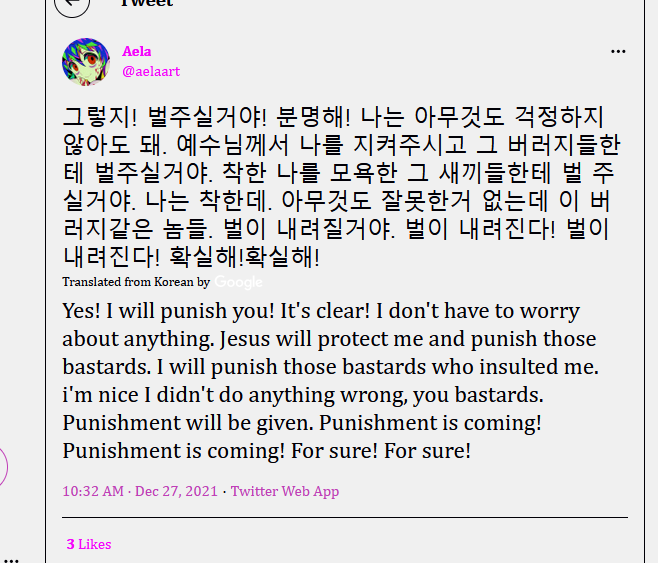
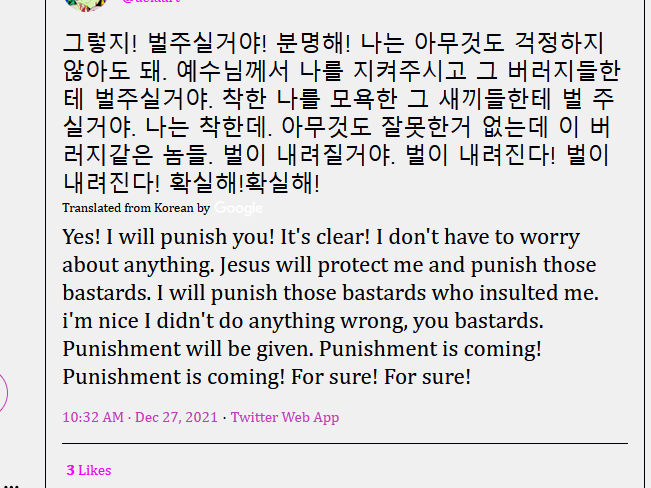
Yeah
dewdefref

diff --git a/soundcloud.html b/soundcloud.html
@@ -2,17 +2,35 @@
 <head>
     <meta charset="UTF-8">
     <meta name="viewport" content="width=device-width, initial-scale=1.0">
-    <title>the proto-jamohub</title>
+    <title>the jamohub</title>
     <link href="style.css" rel="stylesheet" type="text/css" media="all">
 
 </head>
 <body>
 <center>
-<h1> the proto-jamohub </h1>
+<h1> music </h1>
 <a href="index.html">home</a>
 
-<h2>Birdsong</h2>
+<h2>cover your tracks </h2>
 yqyqy
+</br>
+
+
+
+<p>
+
+<iframe width="100%" height="166" scrolling="no" frameborder="no" allow="autoplay" src="https://w.soundcloud.com/player/?url=https%3A//api.soundcloud.com/tracks/1175544289&color=%23ff5500&auto_play=false&hide_related=false&show_comments=true&show_user=true&show_reposts=false&show_teaser=true"></iframe><div style="font-size: 10px; color: #cccccc;line-break: anywhere;word-break: normal;overflow: hidden;white-space: nowrap;text-overflow: ellipsis; font-family: Interstate,Lucida Grande,Lucida Sans Unicode,Lucida Sans,Garuda,Verdana,Tahoma,sans-serif;font-weight: 100;"><a href="https://soundcloud.com/jamojamojamo" title="jamx" target="_blank" style="color: #cccccc; text-decoration: none;">jamx</a> · <a href="https://soundcloud.com/jamojamojamo/aweaaweaweah" title="aweaaweaweah" target="_blank" style="color: #cccccc; text-decoration: none;">aweaaweaweah</a></div>
+</p>
+
+<p>
+<iframe width="100%" height="166" scrolling="no" frameborder="no" allow="autoplay" src="https://w.soundcloud.com/player/?url=https%3A//api.soundcloud.com/tracks/1175544289&color=%23ff5500&auto_play=false&hide_related=false&show_comments=true&show_user=true&show_reposts=false&show_teaser=true"></iframe><div style="font-size: 10px; color: #cccccc;line-break: anywhere;word-break: normal;overflow: hidden;white-space: nowrap;text-overflow: ellipsis; font-family: Interstate,Lucida Grande,Lucida Sans Unicode,Lucida Sans,Garuda,Verdana,Tahoma,sans-serif;font-weight: 100;"><a href="https://soundcloud.com/jamojamojamo" title="jamx" target="_blank" style="color: #cccccc; text-decoration: none;">jamx</a> · <a href="https://soundcloud.com/jamojamojamo/aweaaweaweah" title="aweaaweaweah" target="_blank" style="color: #cccccc; text-decoration: none;">aweaaweaweah</a></div>
+</p>
+
+<p>
+<iframe width="100%" height="166" scrolling="no" frameborder="no" allow="autoplay" src="https://w.soundcloud.com/player/?url=https%3A//api.soundcloud.com/tracks/1175544289&color=%23ff5500&auto_play=false&hide_related=false&show_comments=true&show_user=true&show_reposts=false&show_teaser=true"></iframe><div style="font-size: 10px; color: #cccccc;line-break: anywhere;word-break: normal;overflow: hidden;white-space: nowrap;text-overflow: ellipsis; font-family: Interstate,Lucida Grande,Lucida Sans Unicode,Lucida Sans,Garuda,Verdana,Tahoma,sans-serif;font-weight: 100;"><a href="https://soundcloud.com/jamojamojamo" title="jamx" target="_blank" style="color: #cccccc; text-decoration: none;">jamx</a> · <a href="https://soundcloud.com/jamojamojamo/aweaaweaweah" title="aweaaweaweah" target="_blank" style="color: #cccccc; text-decoration: none;">aweaaweaweah</a></div>
+</p>
+
+
 
 </center>
 </body>

diff --git a/index.html b/index.html
@@ -2,7 +2,7 @@
 <head>
     <meta charset="UTF-8">
     <meta name="viewport" content="width=device-width, initial-scale=1.0">
-    <title>the jamo hub</title>
+    <title>the jamohub</title>
     <link href="style.css" rel="stylesheet" type="text/css" media="all">
 
 </head>
@@ -13,16 +13,28 @@
 <h1> the jamo hub </h1>
 <h3>my links, n', press 'em ! </h3>
 <ul>
+	pages</br></br>
+
 	<li><a href="birdsong.html">birdsong</a>
 	<li><a href="updates.html">updates</a>
 	<li><a href="scrapbook.html">scrapbook</a>
-	<li><a href="art.html">art</a>
+	<li><a href="art.html">art X</a>
 	<li><a href="myspace.html">myspace feed</a>
-	<li><a href="soundcloud.html">soundcloud</a>
-	<li><a href="jamocybersky.html">jamo c i f s c</a>
-	<li><a href="books.html">books page</a>
-	<li><a href="comic.html">comic</a>
-	<li><a href="webseries.html">webseries/youtube</a>
+	<li><a href="soundcloud.html">music</a>
+	<li><a href="jamocybersky.html">jamo cybersky corp.</a>
+	<li><a href="books.html">books page X</a>
+	<li><a href="comic.html">comic X</a>
+	<li><a href="webseries.html">webseries/youtube X</a>
+
+
+	</br></br>links</br></br>
+
+	<li><a href="https://www.patreon.com/jamojamo" target="_blank">patreon</a>
+	<li><a href="https://ko-fi.com/jamojamo" target="_blank">ko-fi</a>
+	<li><a href="https://twitter.com/jamo_art_jamo" target="_blank">twitter</a>
+	<li><a href="https://soundcloud.com/user-516252974"target="_blank">soundcloud</a>
+
+
 </ul>
 
 <h2>Mcr sh </h2>
@@ -39,7 +51,11 @@ yqyqy
 <li>E S</li>
 </ul>
 
-
+</br>
+<p>
+<h3>Contact:</h3>
+j a m o h u b @ p r o t o n m a i l . c o m
+</p></br>
 
 </center>
 </body>

diff --git a/birdsong.html b/birdsong.html
@@ -2,17 +2,53 @@
 <head>
     <meta charset="UTF-8">
     <meta name="viewport" content="width=device-width, initial-scale=1.0">
-    <title>the proto-jamohub</title>
+    <title>jamo hub</title>
     <link href="style.css" rel="stylesheet" type="text/css" media="all">
 
 </head>
 <body>
 <center>
-<h1> the proto-jamohub </h1>
+<h1>the jamohub </h1>
 <a href="index.html">home</a>
 
 <h2>Birdsong</h2>
-yqyqy
+
+</br>
+<p>
+19/01/22</br>
+i could house half a dozen artists in my attic, i should start a commune
+</p>
+</br>
+
+<p>
+18/01/22</br>
+as you go deeper into the machine, you only get further from God
+</p>
+</br>
+
+<p>
+18/01/22</br>
+the cup kept running over until it drowned me
+</p>
+</br>
+
+<p>
+18/01/22</br>
+men like making little wooden dolls and giving them to children
+</p>
+</br>
+
+<p>
+18/01/22</br>
+if squidward was a real guy he'd have 200k subs on youtube
+</p>
+</br>
+
+<p>
+08/01/22</br>
+fear you not Our Lord who is the almighty God?!
+</p>
+</br>
 
 </center>
 </body>

diff --git a/updates.html b/updates.html
@@ -2,17 +2,33 @@
 <head>
     <meta charset="UTF-8">
     <meta name="viewport" content="width=device-width, initial-scale=1.0">
-    <title>the proto-jamohub</title>
+    <title>jamo hub</title>
     <link href="style.css" rel="stylesheet" type="text/css" media="all">
 
 </head>
 <body>
 <center>
-<h1> the proto-jamohub </h1>
+<h1> the jamohub </h1>
 <a href="index.html">home</a>
 
-<h2>Birdsong</h2>
-yqyqy
+<h2>Updates</h2>
+
+</br>
+<p>
+18/01/22</br>just got divorced again, fml</p>
+
+
+</br>
+<p>
+08/01/22</br>fucking nothing, nothing has updated, nothing is new, i just keep getting older, slowly dying, nothing happens, same cycles, all so samey, wanadi, if you havent binged the kooks song 'nothing ever changes' you should, ive heard it so much i dont think ill ever want to hear it in my life ugggggjgjgjgj
+</p>
+
+
+</br>
+<p>
+06/01/22</br>whip & nae nae</br>whip whip & nae nae
+</p>
+
 
 </center>
 </body>

diff --git a/books.html b/books.html
@@ -2,17 +2,21 @@
 <head>
     <meta charset="UTF-8">
     <meta name="viewport" content="width=device-width, initial-scale=1.0">
-    <title>the proto-jamohub</title>
+    <title>the jamohub</title>
     <link href="style.css" rel="stylesheet" type="text/css" media="all">
 
 </head>
 <body>
 <center>
-<h1> the proto-jamohub </h1>
+<h1>the jamo hub </h1>
 <a href="index.html">home</a>
 
-<h2>Birdsong</h2>
-yqyqy
+<h2>Books</h2>
+<ul>
+jamo's juvenilia</br>
+<li>
+<li>SENTIMENTS, a book of poems
+</ul>
 
 </center>
 </body>

diff --git a/scrapbook.html b/scrapbook.html
@@ -68,12 +68,6 @@ sdwdwedfesd landchad</br>
 
 <p>
 </br>
-  <img src="propogandakimono4.jpg" alt="propaganda kimono1" width="600" height="711">
-  </p>
-  </br>
-
-<p>
-</br>
   <img src="solomon islanders 2.jpg" alt="solomon islanders" width="630" height="354">
   </p>
   </br>
@@ -100,7 +94,7 @@ sdwdwedfesd landchad</br>
 
 <p>
 </br>
-  <img src="tweet2.PNG" alt="aela tweet" width="658" height="563">
+  <img src="tweet2.PNG" alt="aela tweet" width="651" height="488">
   </p>
   </br>
 
